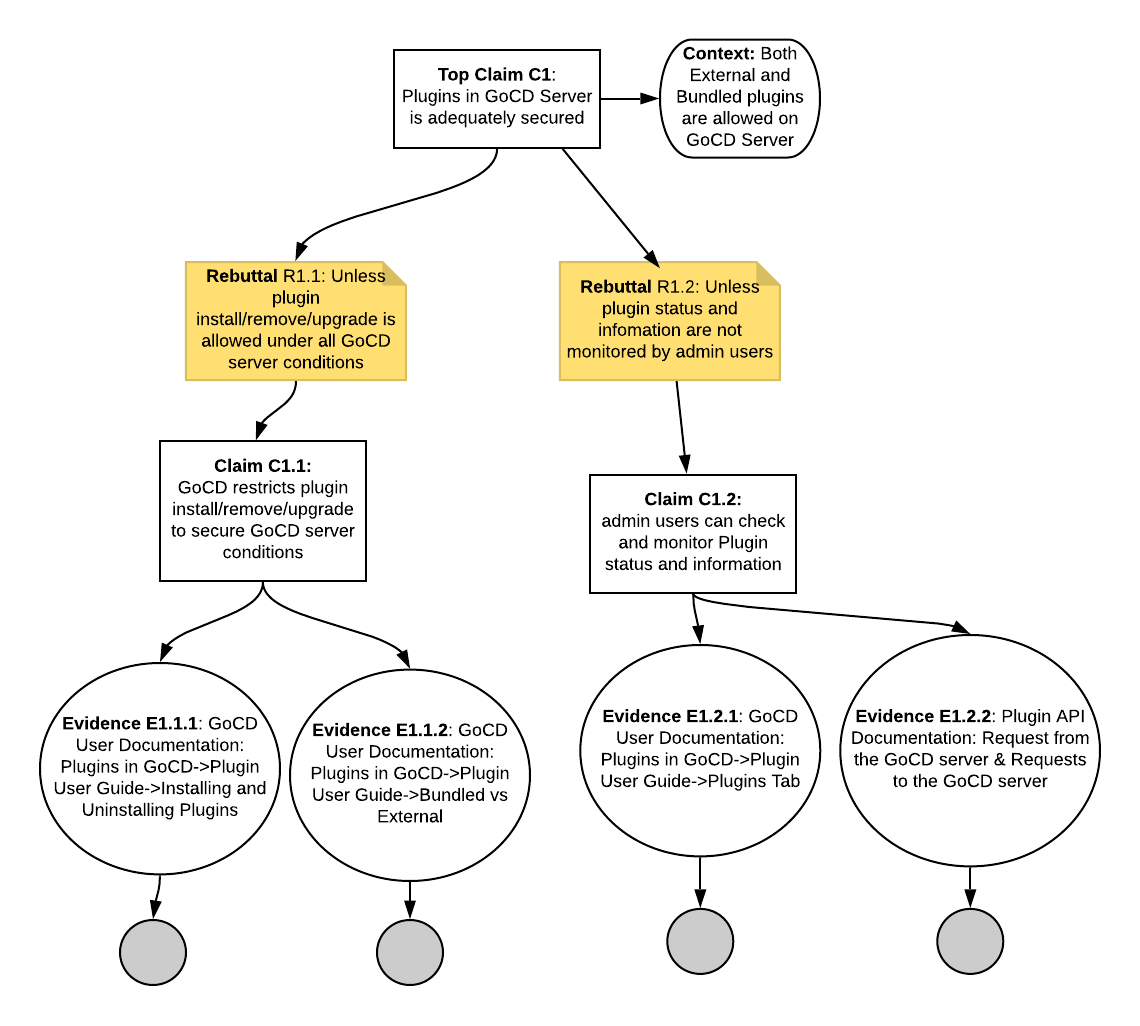
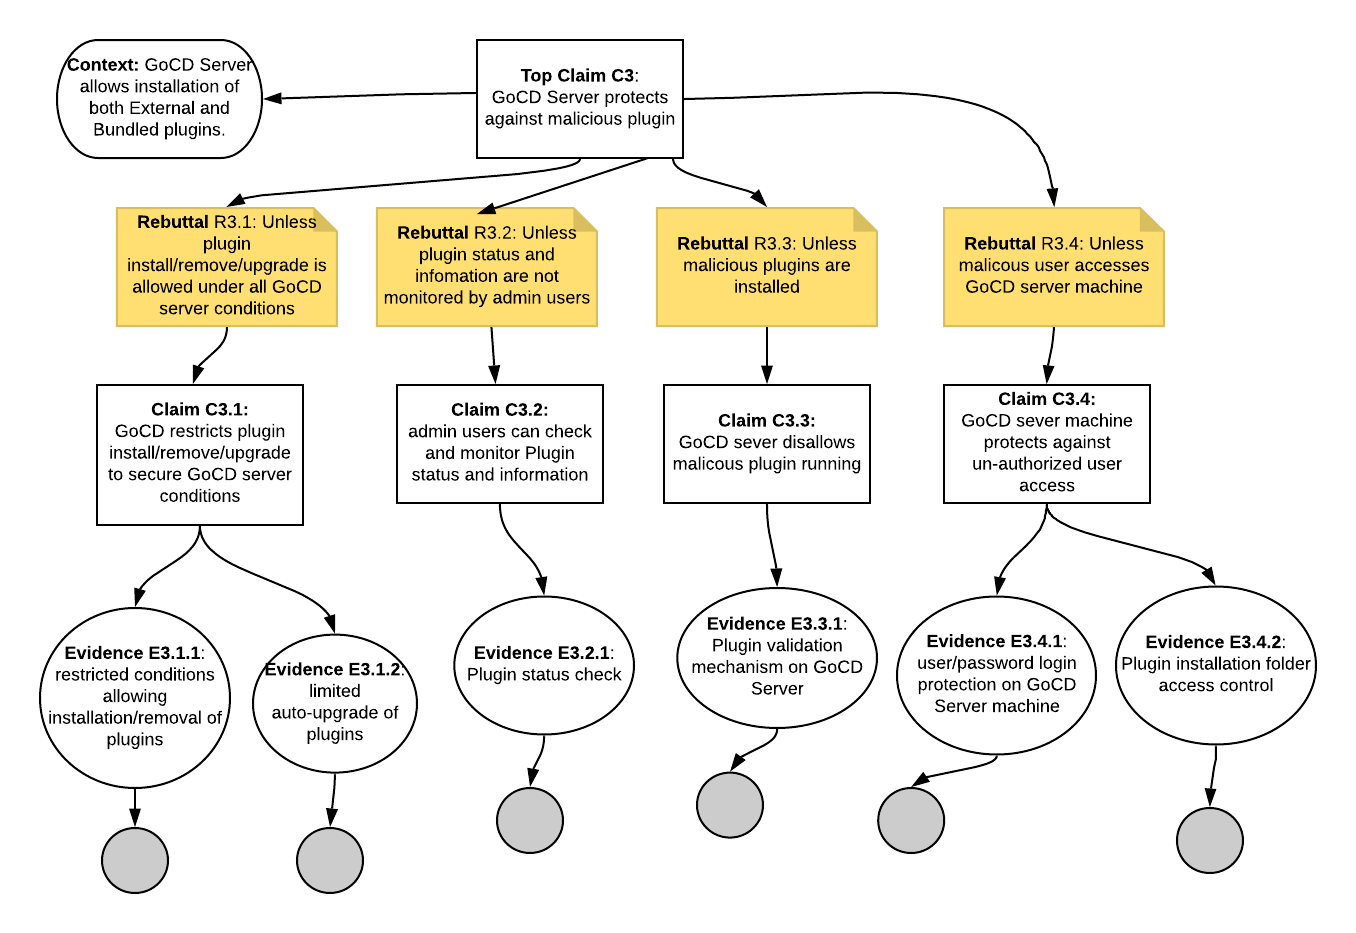
update claim 3

Changed region(s): [[0.0307, 0.0311, 0.9825, 0.9636], [0.2149, 0.8703, 0.2763, 0.9636], [0.7368, 0.1243, 0.7675, 0.1554]]

diff --git a/submissions/Assurance-Claims.md b/submissions/Assurance-Claims.md
@@ -15,10 +15,12 @@ note: should be more specific
 ## Assurance Claim - 3: 
 **Top Claim 3: GoCD server protects against malicious plugin**
 ![Preventions of unauthorized access](https://github.com/SA-Java-CCSW/CYBR8420ProjectGoCD/blob/master/AssuranceClaims/Assurance3.png)
-* **Evidence E1.1.1:** Authorized users are allowed to install/remove plugins only when GoCD server restarts. A unique ID is maintained in metadata file for each plugin. GoCD server allows only one plugin of same ID run. 
-* **Evidence E1.1.2:** Bundled plugins are developed and supported by Thoughtworks GoCD development team. They will be refreshed with the latest packaged version with an upgrade. However, external plugins will not be upgraded with system upgrade.
-* **Evidence E1.2.1:** GoCD server admin users can find all the plugins loaded to  the sever in plugin tab. The plugins' details and status are shown here, including incompatability and validity.
-* **Evidence E1.2.2:** authorization plugins installed on GoCD server increases the GoCD server security. 
+* **Evidence E3.1.1:** Authorized users are allowed to install/remove plugins only when GoCD server restarts. A unique ID is maintained in metadata file for each plugin. GoCD server allows only one plugin of same ID run. 
+* **Evidence E3.1.2:** Bundled plugins are developed and supported by Thoughtworks GoCD development team. They will be refreshed with the latest packaged version with an upgrade. However, external plugins will not be upgraded with system upgrade.
+* **Evidence E3.2.1:** GoCD server admin users can find all the plugins loaded to  the sever in plugin tab. The plugins' details and status are shown here, including incompatability and validity.
+* **Evidence E3.3.1:** GoCD server doesn't seem to have much validation mechanism on plugins. It only checks compatability of plugins, and displays reason of invalid plugin. Advanced plugin validation mechanism should be built in GoCD.[GoCD Plugin Test]
+* **Evidence E3.4.1:** GoCD server machine can have username/password login protection for local access and remote access which disallows malicious user from accessing server machine. But this is out of GoCD's protection, it depends on how admin users configured the server machine.
+* **Evidence E3.4.2:** GoCD server plugin installation folders(bundled and external) are protected with access control, only admin users can modify it. This is also out of GoCD's control, and is completely controled by server machine's user access control mechanism. 
 
 ## Assurance Claim - 4: 
 **Top Claim 4: GoCD is sufficiently protected against accidental data loss**
